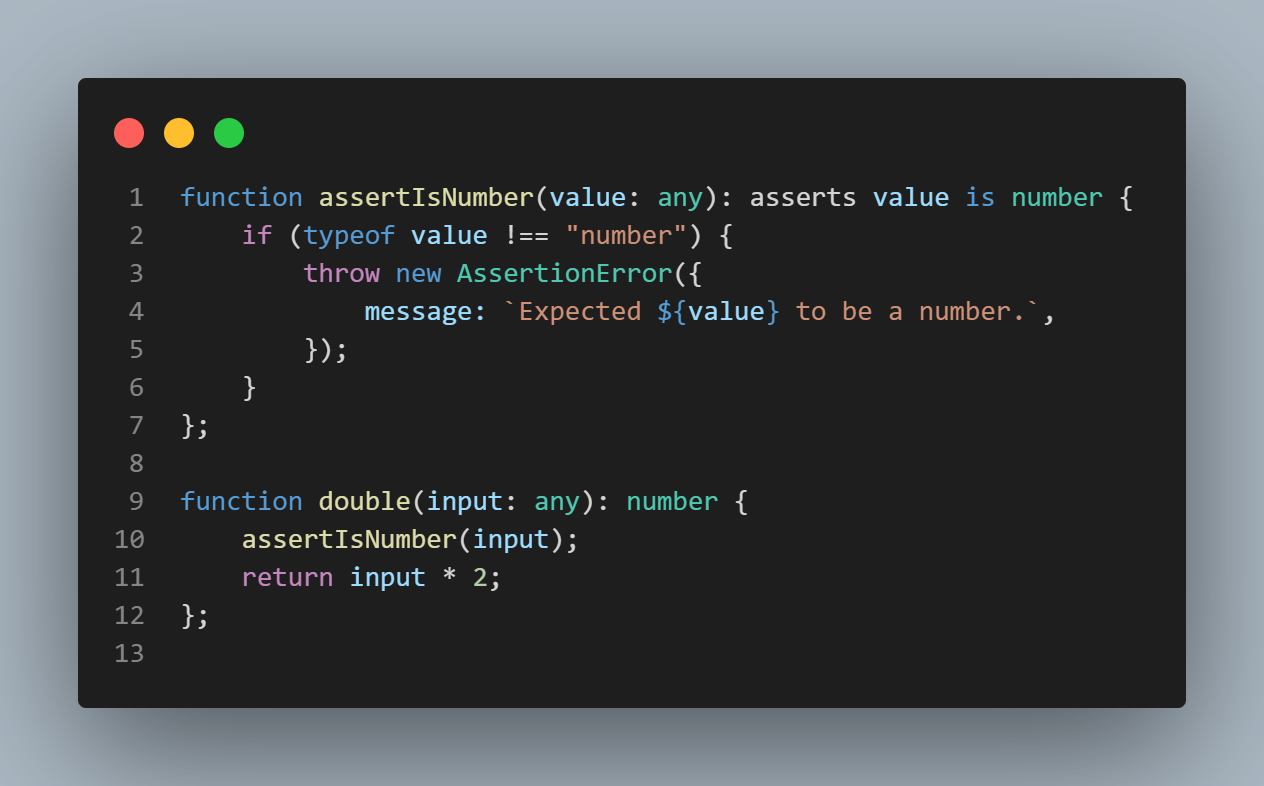
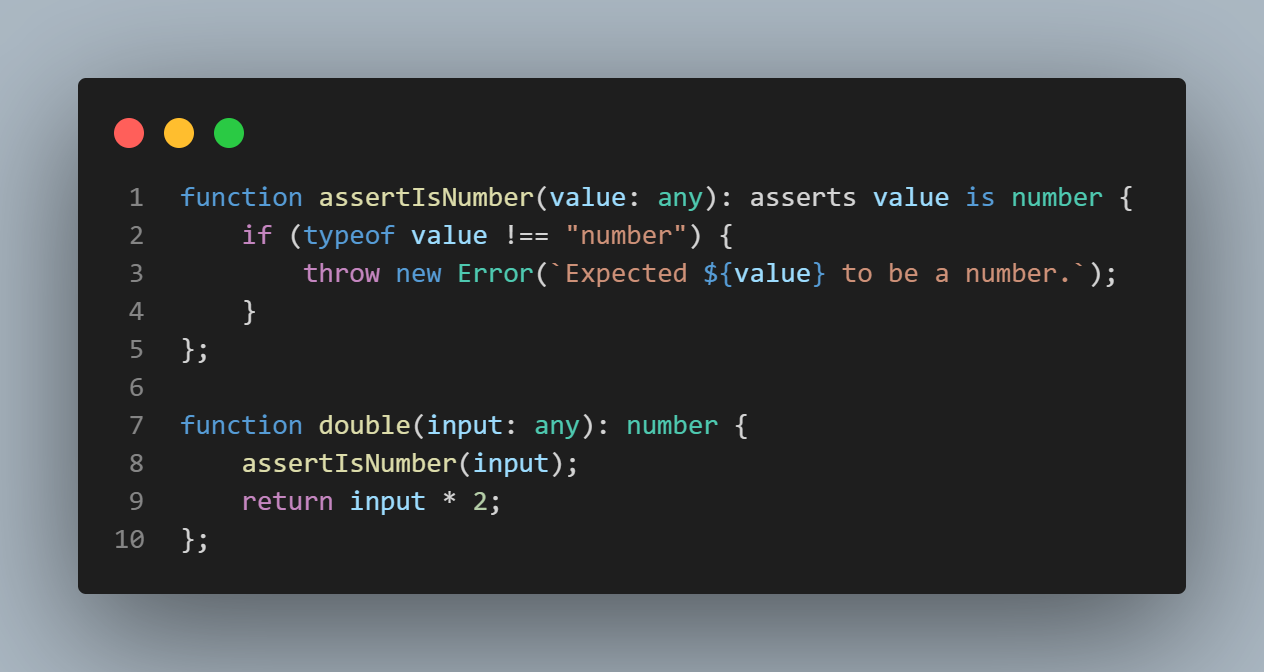
update

diff --git a/3-AssertFunctions.tsx b/3-AssertFunctions.tsx
@@ -1,18 +1,12 @@
-import { AssertionError } from "assert";
-
 function assertIsNumber(value: any): asserts value is number {
 	if (typeof value !== "number") {
-		throw new AssertionError({
-			message: `Expected ${value} to be a number.`,
-		});
+		throw new Error(`Expected ${value} to be a number.`);
 	}
 };
 
-const assertIsNumberBroken = (value: any): asserts value is number  => {
+const assertIsNumberBroken: (value: any) => asserts value is number = (value: any): asserts value is number  => {
 	if (typeof value !== "number") {
-		throw new AssertionError({
-			message: `Expected ${value} to be a number.`,
-		});
+		throw new Error(`Expected ${value} to be a number.`);
 	}
 };
 
